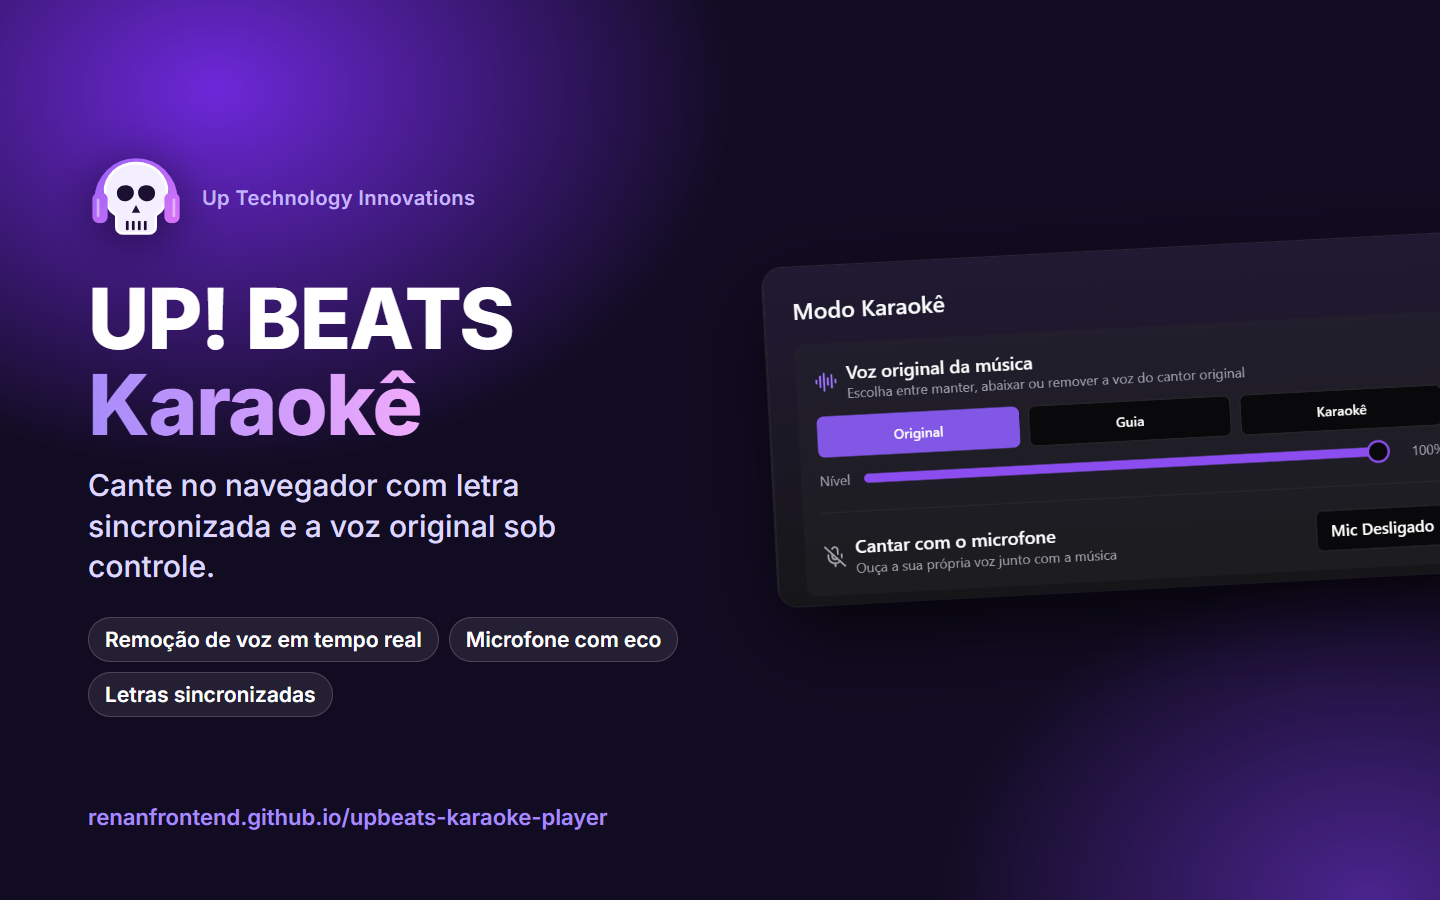
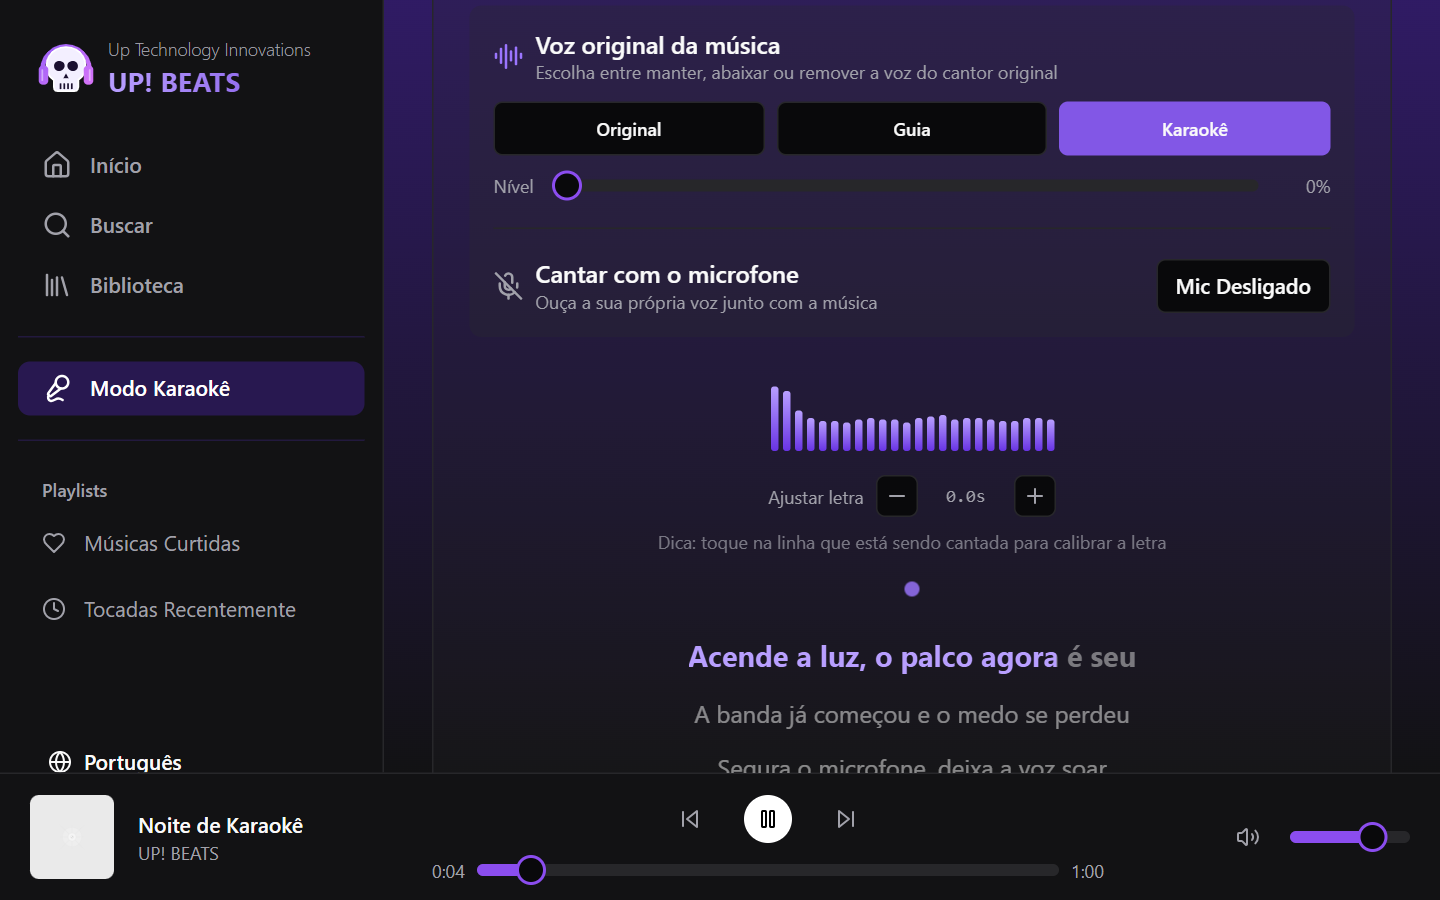
content: capas reais do karaokê e do Manor e textos fiéis ao código
- Karaokê: captura do app com a voz removida e a letra sincronizada.
- Manor Escape: enigma do relógio no lugar da tela inicial (o texto
  alternativo já falava de um cômodo e do painel de enigmas).
- Gemini: era descrito como Next.js com busca semântica; agora diz
  React/Vite e separa o chat funcional dos módulos em protótipo.
- FNaF: Redux saiu da lista de tecnologias, porque o remaster trocou os
  reducers pelo motor novo.

diff --git a/src/content/pt-BR/projects.ts b/src/content/pt-BR/projects.ts
@@ -40,15 +40,19 @@ export const projectsCopy: Record<string, ProjectCopy> = {
   "gemini-beyond-prompts": {
     title: "Gemini Beyond Prompts",
     summary:
-      "Sistema de IA que reúne chat com memória, análise de documentos com RAG e agentes orquestrados em uma única interface.",
+      "Protótipo de painel de IA que reúne chat com o Google Gemini e telas de análise de documentos (RAG) e de agentes em uma única interface.",
     coverAlt: "Tela inicial do Gemini Beyond Prompts com os módulos de chat, análise de documentos e assistente.",
     galleryAlt: [],
     challenge:
       "Explorar como recursos de IA generativa vão além de um campo de prompt: conversa com contexto, busca semântica em documentos próprios e tarefas executadas por agentes.",
     solution:
-      "Aplicação em Next.js e TypeScript com três módulos: chat com Google Gemini, biblioteca de documentos com busca semântica por embeddings e um assistente com agentes de pesquisa, planejamento e execução inspirados no LangGraph.",
+      "Aplicação em React, Vite e TypeScript com três módulos: chat com o Google Gemini, que mantém o contexto da conversa; uma biblioteca de documentos no estilo RAG; e um assistente com agentes de pesquisa, planejamento e execução inspirados no LangGraph. O chat chama a API de verdade; a análise de documentos e os agentes são protótipos de interface com processamento simulado, e o banco da versão completa (Supabase com pgvector) já está modelado.",
     contribution: "Projeto individual de estudo: interface, integração com a API do Gemini e organização dos módulos.",
-    outcomes: ["Demonstração publicada na Vercel.", "Upload de PDF, Word, Excel e texto para consulta em linguagem natural."],
+    outcomes: [
+      "Demonstração publicada na Vercel.",
+      "Chat funcional com a API do Gemini, usando a chave do próprio visitante.",
+      "Banco modelado no Supabase com pgvector para a próxima etapa: a busca semântica.",
+    ],
   },
   "fnaf-web": {
     title: "Five Nights at Freddy's Web",
@@ -59,7 +63,7 @@ export const projectsCopy: Record<string, ProjectCopy> = {
     challenge:
       "O projeto de fã original (Wendell de Sousa, 2021) não rodava mais com o Node atual e tinha falhas de estado: timers que nunca eram limpos, animatrônicos que ignoravam o que acontecia e telas que não atualizavam.",
     solution:
-      "Migração para Vite 6 e React 18, reducers do Redux corrigidos e um motor de jogo novo baseado em ticks, sem setTimeout, que pode ser pausado, reiniciado e testado de forma determinística. O comportamento ficou mais fiel ao original: rotas aleatórias, dificuldade crescente, blecaute em três fases.",
+      "Migração para Vite 6 e React 18 e um motor de jogo novo baseado em ticks, sem setTimeout, no lugar dos reducers do Redux e dos timers soltos: ele pode ser pausado, reiniciado e testado de forma determinística. O comportamento ficou mais fiel ao original: rotas aleatórias, dificuldade crescente, blecaute em três fases.",
     contribution:
       "Remaster individual: diagnóstico e correção dos bugs, reescrita do motor, 20 testes automatizados com Vitest, acessibilidade (teclado, aria-label, movimento reduzido) e deploy automático no GitHub Pages. Five Nights at Freddy's © Scott Cawthon; projeto de fã, sem fins lucrativos.",
     outcomes: [
@@ -72,7 +76,7 @@ export const projectsCopy: Record<string, ProjectCopy> = {
     title: "UP! BEATS Karaokê",
     summary:
       "Karaokê que roda no navegador: letra sincronizada, remoção da voz original em tempo real e microfone com eco, tudo processado no próprio aparelho.",
-    coverAlt: "Painel do modo karaokê do UP! BEATS com os controles de voz original (Original, Guia e Karaokê) e de microfone.",
+    coverAlt: "Modo karaokê do UP! BEATS com a voz original removida, os controles de voz e de microfone, o visualizador de áudio e a letra sincronizada preenchendo a linha cantada.",
     galleryAlt: [],
     challenge:
       "Fazer karaokê de verdade sem servidor de áudio: tirar a voz de músicas comuns, mostrar a letra no tempo certo e deixar a pessoa ouvir a própria voz junto, sem atraso nem microfonia, em qualquer navegador.",
@@ -107,7 +111,7 @@ export const projectsCopy: Record<string, ProjectCopy> = {
     title: "Manor Escape",
     summary:
       "Escape room vitoriano jogável no navegador, com quatro enigmas encadeados e um cofre interativo em 3D.",
-    coverAlt: "Tela do jogo Manor Escape mostrando um cômodo da mansão e o painel de enigmas.",
+    coverAlt: "Enigma do relógio de pêndulo no Manor Escape, com o mostrador em algarismos romanos, o ajuste de horas e minutos e o botão de dica.",
     galleryAlt: [],
     challenge:
       "Modelar um jogo com fluxo não linear, temporizador, dicas e progresso salvo sem espalhar regras pela interface.",

diff --git a/src/content/en/projects.ts b/src/content/en/projects.ts
@@ -39,15 +39,19 @@ export const projectsCopy: Record<string, ProjectCopy> = {
   },
   "gemini-beyond-prompts": {
     title: "Gemini Beyond Prompts",
-    summary: "AI system combining chat with memory, document analysis with RAG and orchestrated agents in a single interface.",
+    summary: "AI dashboard prototype combining a Google Gemini chat with document analysis (RAG) and agent screens in a single interface.",
     coverAlt: "Gemini Beyond Prompts home screen with the chat, document analysis and assistant modules.",
     galleryAlt: [],
     challenge:
       "Explore how generative AI features go beyond a prompt box: conversations with context, semantic search over your own documents and tasks carried out by agents.",
     solution:
-      "A Next.js and TypeScript application with three modules: chat with Google Gemini, a document library with embedding-based semantic search and an assistant with research, planning and execution agents inspired by LangGraph.",
+      "A React, Vite and TypeScript application with three modules: a Google Gemini chat that keeps the conversation context, a RAG-style document library and an assistant with research, planning and execution agents inspired by LangGraph. The chat calls the API for real; document analysis and agents are interface prototypes with simulated processing, and the database for the full version (Supabase with pgvector) is already modeled.",
     contribution: "Solo study project: interface, Gemini API integration and module structure.",
-    outcomes: ["Demo published on Vercel.", "Upload PDF, Word, Excel and text files and query them in natural language."],
+    outcomes: [
+      "Demo published on Vercel.",
+      "Working chat with the Gemini API, using the visitor's own key.",
+      "Database modeled in Supabase with pgvector for the next step: semantic search.",
+    ],
   },
   "fnaf-web": {
     title: "Five Nights at Freddy's Web",
@@ -57,7 +61,7 @@ export const projectsCopy: Record<string, ProjectCopy> = {
     challenge:
       "The original fan project (Wendell de Sousa, 2021) no longer ran on current Node and had state bugs: timers that were never cleared, animatronics ignoring what happened and screens that did not update.",
     solution:
-      "Migration to Vite 6 and React 18, fixed Redux reducers and a new tick-based game engine with no setTimeout that can be paused, restarted and tested deterministically. Behavior is closer to the original: random routes, rising difficulty and a three-phase blackout.",
+      "Migration to Vite 6 and React 18 and a new tick-based game engine with no setTimeout, replacing the Redux reducers and loose timers: it can be paused, restarted and tested deterministically. Behavior is closer to the original: random routes, rising difficulty and a three-phase blackout.",
     contribution:
       "Solo remaster: bug diagnosis and fixes, engine rewrite, 20 automated tests with Vitest, accessibility (keyboard, aria-label, reduced motion) and automatic deployment to GitHub Pages. Five Nights at Freddy's © Scott Cawthon; non-profit fan project.",
     outcomes: [
@@ -70,7 +74,7 @@ export const projectsCopy: Record<string, ProjectCopy> = {
     title: "UP! BEATS Karaoke",
     summary:
       "Karaoke that runs in the browser: synced lyrics, real-time removal of the original vocals and a microphone with echo, all processed on the device.",
-    coverAlt: "UP! BEATS karaoke mode panel with the original-vocals controls (Original, Guide and Karaoke) and the microphone controls.",
+    coverAlt: "UP! BEATS karaoke mode with the original vocals removed, the voice and microphone controls, the audio visualizer and the synced lyrics filling the line being sung.",
     galleryAlt: [],
     challenge:
       "Build real karaoke without an audio server: strip the vocals from regular songs, show the lyrics on time and let people hear their own voice along with the track, without lag or feedback, in any browser.",
@@ -103,7 +107,7 @@ export const projectsCopy: Record<string, ProjectCopy> = {
   "manor-escape": {
     title: "Manor Escape",
     summary: "A Victorian escape room playable in the browser, with four chained puzzles and an interactive 3D safe.",
-    coverAlt: "Manor Escape game screen showing a room of the mansion and the puzzle panel.",
+    coverAlt: "Grandfather clock puzzle in Manor Escape, with a Roman-numeral dial, hour and minute controls and the hint button.",
     galleryAlt: [],
     challenge: "Model a game with a non-linear flow, timer, hints and saved progress without scattering rules across the interface.",
     solution:

diff --git a/src/content/projects-base.ts b/src/content/projects-base.ts
@@ -37,7 +37,7 @@ export const projectsBase: ProjectBase[] = [
     id: "gemini-beyond-prompts",
     slug: "gemini-beyond-prompts",
     category: "ai",
-    technologies: ["Next.js", "React", "TypeScript", "Gemini API", "RAG", "LangGraph", "Tailwind CSS"],
+    technologies: ["React", "Vite", "TypeScript", "Gemini API", "Supabase", "Tailwind CSS"],
     kind: "personal",
     status: "live",
     featured: true,
@@ -50,7 +50,7 @@ export const projectsBase: ProjectBase[] = [
     id: "fnaf-web",
     slug: "fnaf-web",
     category: "games",
-    technologies: ["React", "Vite", "Redux", "JavaScript", "Vitest", "GitHub Actions"],
+    technologies: ["React", "Vite", "JavaScript", "Vitest", "GitHub Actions"],
     kind: "personal",
     status: "live",
     featured: true,
